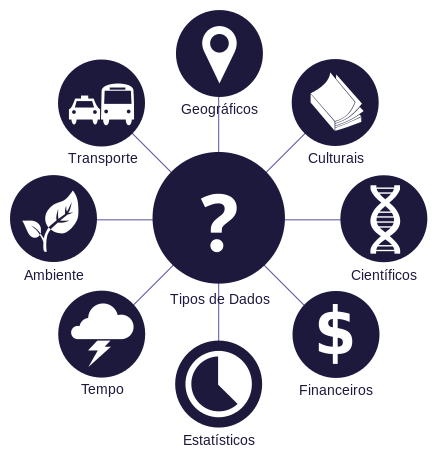
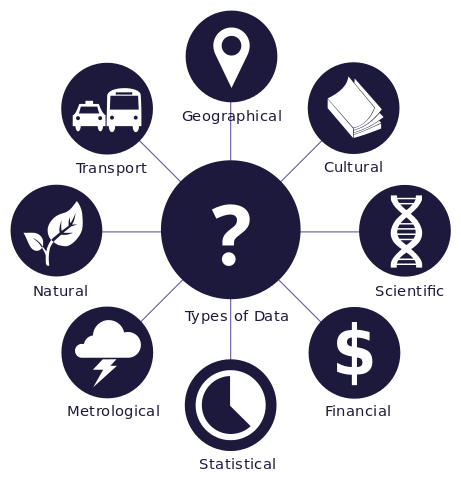
Edit design

diff --git a/pages/about.html b/pages/about.html
@@ -9,7 +9,7 @@ navigation_order: 1
 ---
 
 <div class="editable">
-  <img src="/images/data.png" align="left" width="300px">
+  <img src="/images/data.png" align="left" style="margin:0px 20px 0px 0px" width="300px">
   
   <p><strong>D8A</strong> is focused on the future of data science and deep learning. We aim to be at the forefront of advanced technologies in artificial/cognitive intelligence. These include, but are not limited to, biological networks, neural laces, edge analytics, fog computing, Internet of Things (IoT), and System of Systems (SoS).
   

diff --git a/pages/index.html b/pages/index.html
@@ -9,7 +9,7 @@ navigation_order: 2
 ---
 
 <div class="editable">
-  <img src="/images/dna.jpg" align="left" class="box" width="300px">
+  <img src="/images/dna.jpg" align="left" style="border-radius:2px; box-shadow:1px 1px 5px 0 rgba(100, 100, 100, 0.2); margin:0px 30px 15px 0px" width="300px">
   
   <p>We cover a variety of topics important to us:</p>
   

diff --git a/README.md b/README.md
@@ -8,7 +8,7 @@ This is a Jekyll theme created for **[D8A](http://d8aorg.github.io)**.
 - Icons by [Font Awesome](https://github.com/FortAwesome/Font-Awesome)
 - Images for
     - [Background](https://www.flickr.com/photos/79237959@N02/12210424505)
-    - [Data Types](https://commons.wikimedia.org/wiki/File:Data_types_-_pt_br.svg)
+    - [Data Types](https://commons.wikimedia.org/wiki/File:Data_types_-_en.svg)
     - [DNA](http://wink-designs.com) [Cloud](http://www.tagxedo.com)
 
 ## License

diff --git a/_posts/_defaults.md b/_posts/_defaults.md
@@ -3,6 +3,6 @@ title:
 date:
 categories:
 author:
-image: /images/dna.jpg
+image: "/images/dna.jpg"
 large_header: false
 ---
